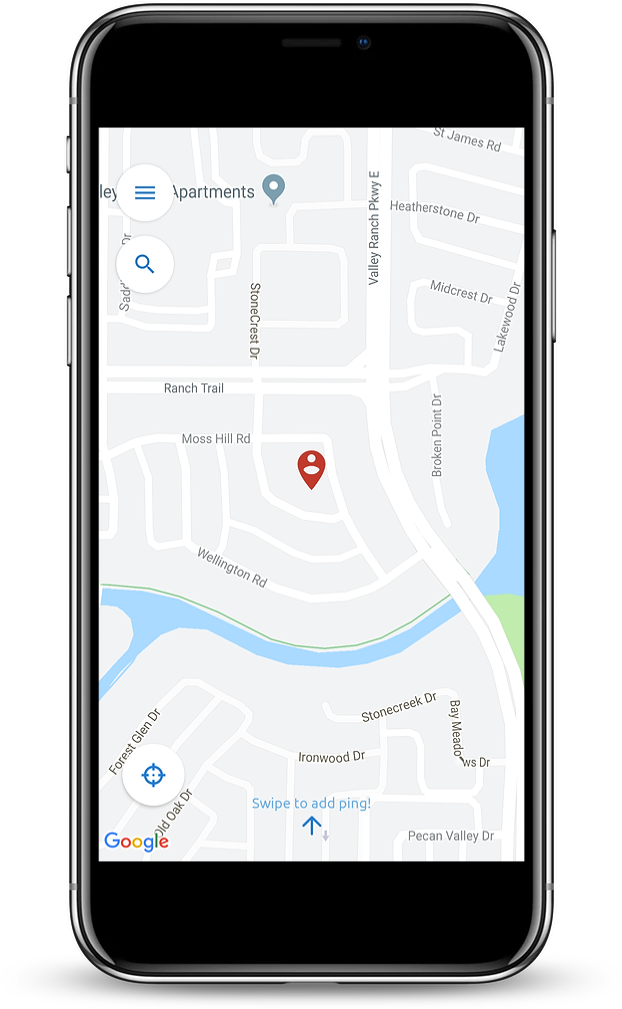
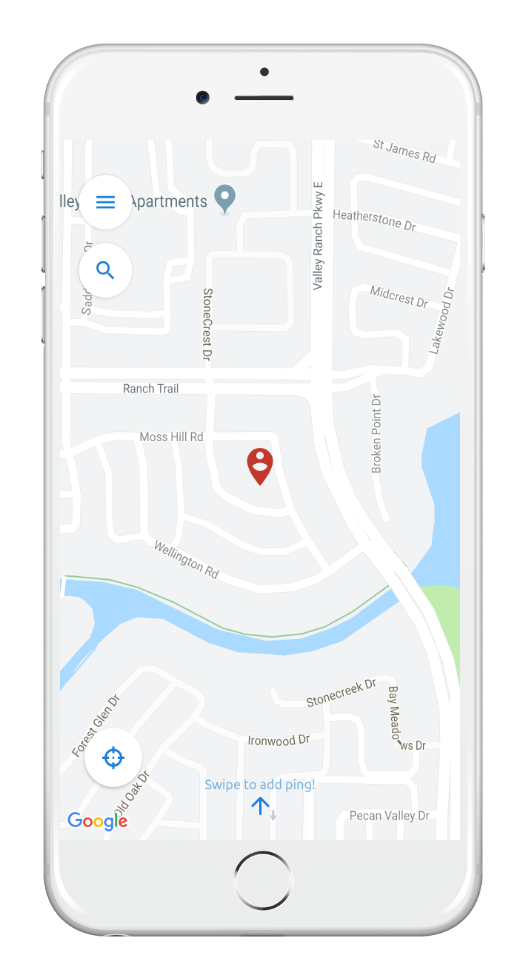
Use better mockup images

diff --git a/assets/css/index.css b/assets/css/index.css
@@ -14,7 +14,12 @@ main {
 }
 
 #header {
+  font-family: "Red Hat Text", sans-serif;
   font-size: 36px;
+}
+
+.nav-link {
+  font-family: "Lato", sans-serif;
 }
 
 /* About */
@@ -38,6 +43,7 @@ main {
 }
 
 #about-text {
+  font-family: "Red Hat Text", sans-serif;
   font-size: 42px;
   color: #29A7F3
 }
@@ -51,11 +57,12 @@ main {
   border-radius: 24px;
   border-color: black;
   background-color: rgba(220, 220, 220, 0.05);
+  font-family: "Red Hat Text", sans-serif;
 }
 
 #about-demo-img {
-  height: 600px;
-  width: 354px;
+  height: 635px;
+  width: 315px;
 }
 
 /* Download */
@@ -74,6 +81,7 @@ main {
 }
 
 #download-header {
+  font-family: "Red Hat Text", sans-serif;
   font-size: 56px;
 }
 
@@ -84,6 +92,7 @@ main {
 }
 
 #download-text {
+  font-family: "Red Hat Text", sans-serif;
   font-size: 20px;
 }
 
@@ -119,11 +128,13 @@ main {
 }
 
 #features-header {
+  font-family: "Red Hat Text", sans-serif;
   font-size: 42px;
 }
 
 #features-subheader {
   margin-top: 8px;
+  font-family: "Red Hat Text", sans-serif;
   font-size: 18px;
   color: rgb(128, 128, 128);
 }
@@ -165,11 +176,13 @@ main {
 
 #feature-header {
   margin-top: 16px;
+  font-family: "Red Hat Text", sans-serif;
   font-size: 24px;
 }
 
 #feature-text {
   color: rgb(128, 128, 128);
+  font-family: "Red Hat Text", sans-serif;
   font-size: 20px;
 }
 
@@ -209,6 +222,7 @@ main {
 }
 
 #slogan-text {
+  font-family: "Red Hat Text", sans-serif;
   font-size: 84px;
   color: white;
 }
@@ -229,6 +243,7 @@ main {
 }
 
 #social-text {
+  font-family: "Red Hat Text", sans-serif;
   font-size: 32px;
 }
 
@@ -262,6 +277,7 @@ main {
 }
 
 #footer-text {
+  font-family: "Red Hat Text", sans-serif;
   font-size: 12px;
   color: #5A5A5A;
 }

diff --git a/index.html b/index.html
@@ -15,9 +15,8 @@
     <meta name="viewport" content="width=device-width, initial-scale=1.0" />
 
     <!-- fonts -->
-    <link rel="stylesheet" href="https://fonts.googleapis.com/css?family=Lato">
-    <link rel="stylesheet" href="https://fonts.googleapis.com/css?family=Catamaran:100,200,300,400,500,600,700,800,900">
-    <link rel="stylesheet" href="https://fonts.googleapis.com/css?family=Muli">
+    <link href="https://fonts.googleapis.com/css?family=Lato&display=swap" rel="stylesheet">
+    <link href="https://fonts.googleapis.com/css?family=Red+Hat+Text&display=swap" rel="stylesheet">
 
     <!-- style sheets -->
     <link rel="stylesheet" href="assets/css/index.css">
